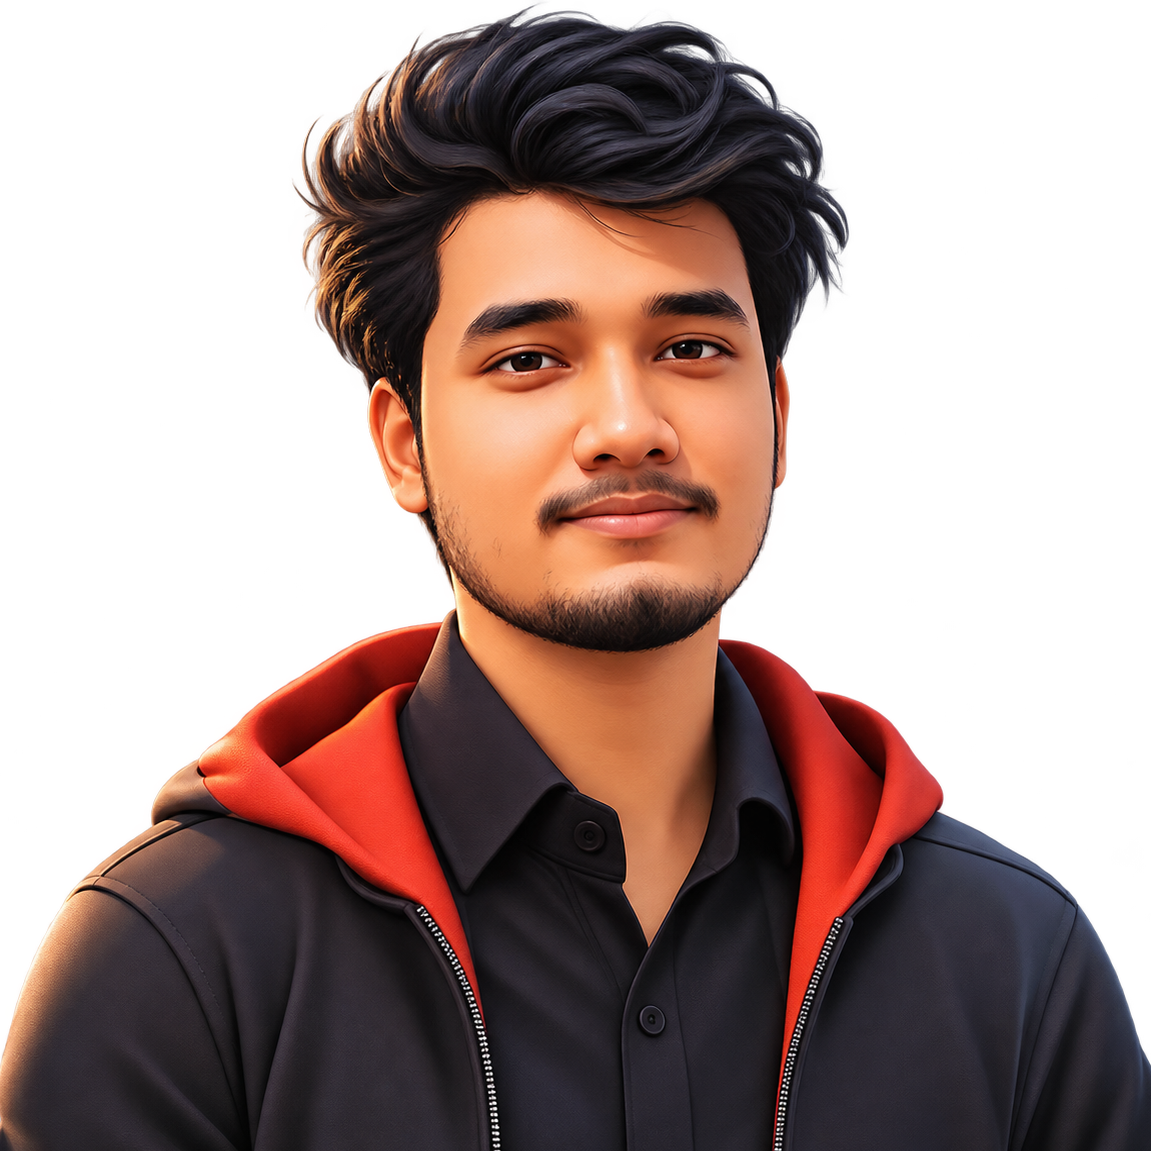
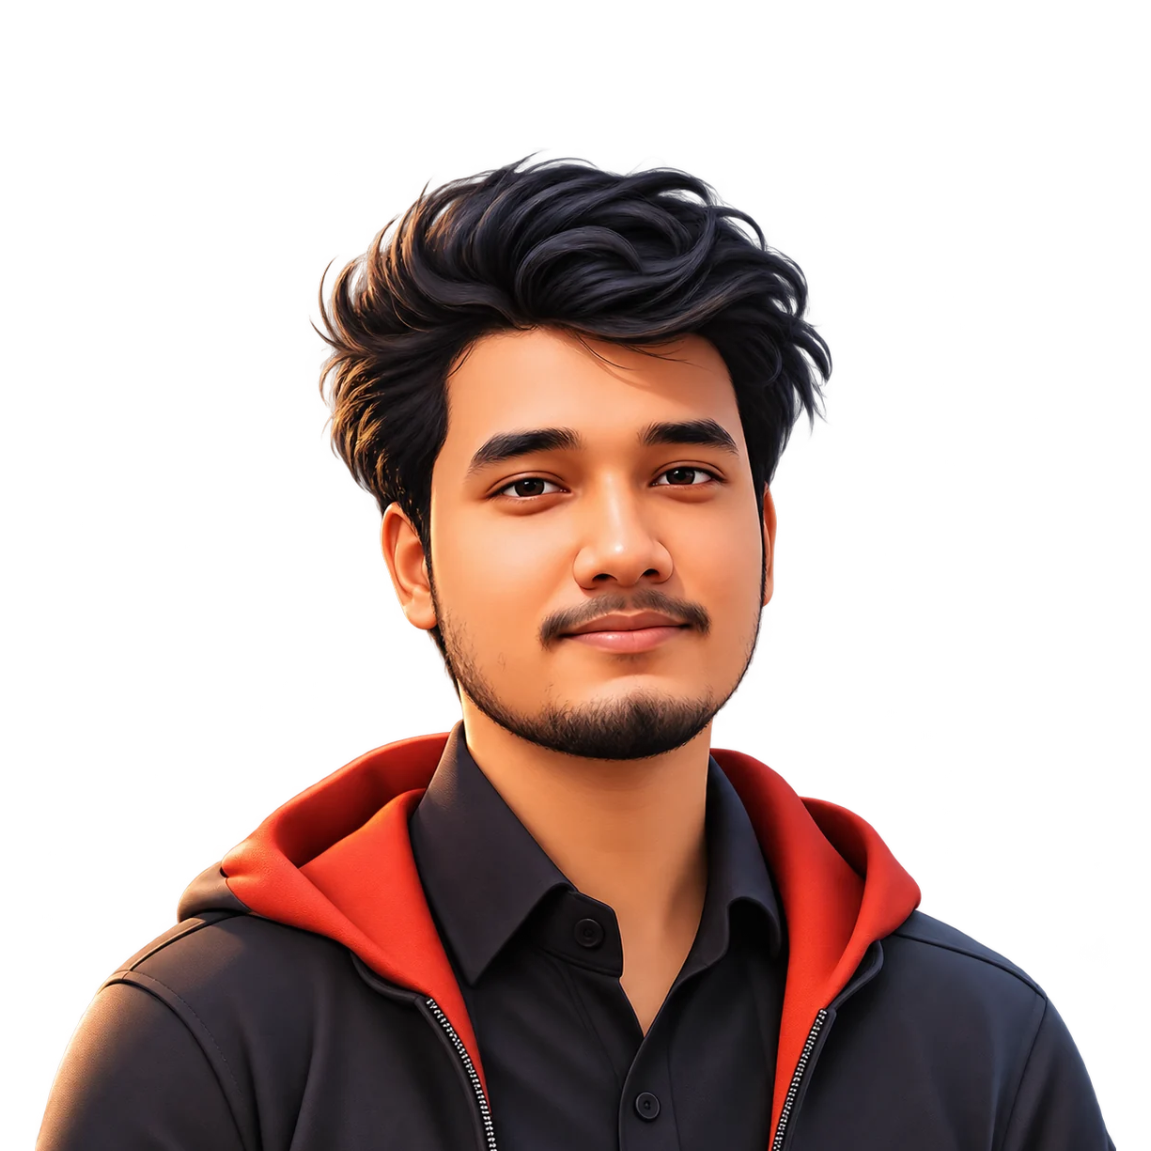
seo

diff --git a/src/app/layout.tsx b/src/app/layout.tsx
@@ -21,8 +21,7 @@ const plusJakarta = Plus_Jakarta_Sans({
 
 const siteUrl = "https://himeshroy.dev";
 const siteName = "Himesh Roy · Portfolio";
-const ogImage = "/og-image.png";
-
+const searchImage = "/images/search-thumbnail.jpeg";
 const socialProfiles = [
   "https://www.linkedin.com/in/himeshroy",
   "https://github.com/himeshroy",
@@ -104,10 +103,9 @@ export const metadata: Metadata = {
 
     images: [
       {
-        url: ogImage,
+        url: searchImage,
         width: 1200,
         height: 630,
-        type: "image/png",
         alt: "Himesh Roy — Full-Stack & AI Developer",
       },
     ],
@@ -122,7 +120,7 @@ export const metadata: Metadata = {
 
     images: [
       {
-        url: ogImage,
+        url: searchImage,
         alt: "Himesh Roy — Full-Stack & AI Developer",
       },
     ],
@@ -151,15 +149,27 @@ const structuredData = {
       "@type": "WebSite",
       "@id": `${siteUrl}/#website`,
       name: siteName,
-      alternateName: ["Himesh Roy", "Himesh Roy · Portfolio", "Himesh Roy Portfolio", "himeshroy.dev"],
+      alternateName: ["Himesh Roy Portfolio", "Himesh Roy"],
       url: `${siteUrl}/`,
+    },
+    {
+      "@type": "WebPage",
+      "@id": `${siteUrl}/#webpage`,
+      url: `${siteUrl}/`,
+      name: "Himesh Roy | Full-Stack Developer & AI/ML Student",
+      isPartOf: { "@id": `${siteUrl}/#website` },
+      primaryImageOfPage: {
+        "@type": "ImageObject",
+        url: `${siteUrl}${searchImage}`,
+      },
+      thumbnailUrl: `${siteUrl}${searchImage}`,
     },
     {
       "@type": "Person",
       "@id": `${siteUrl}/#person`,
       name: "Himesh Roy",
       url: siteUrl,
-      image: `${siteUrl}/images/himesh-avatar-3d.png`,
+      image: `${siteUrl}${searchImage}`,
       jobTitle: "Full-Stack Developer",
       description:
         "B.Tech CSE (AI & ML) student at Geeta University, IEEE Student Member and Full-Stack Developer building modern web applications and intelligent systems.",
